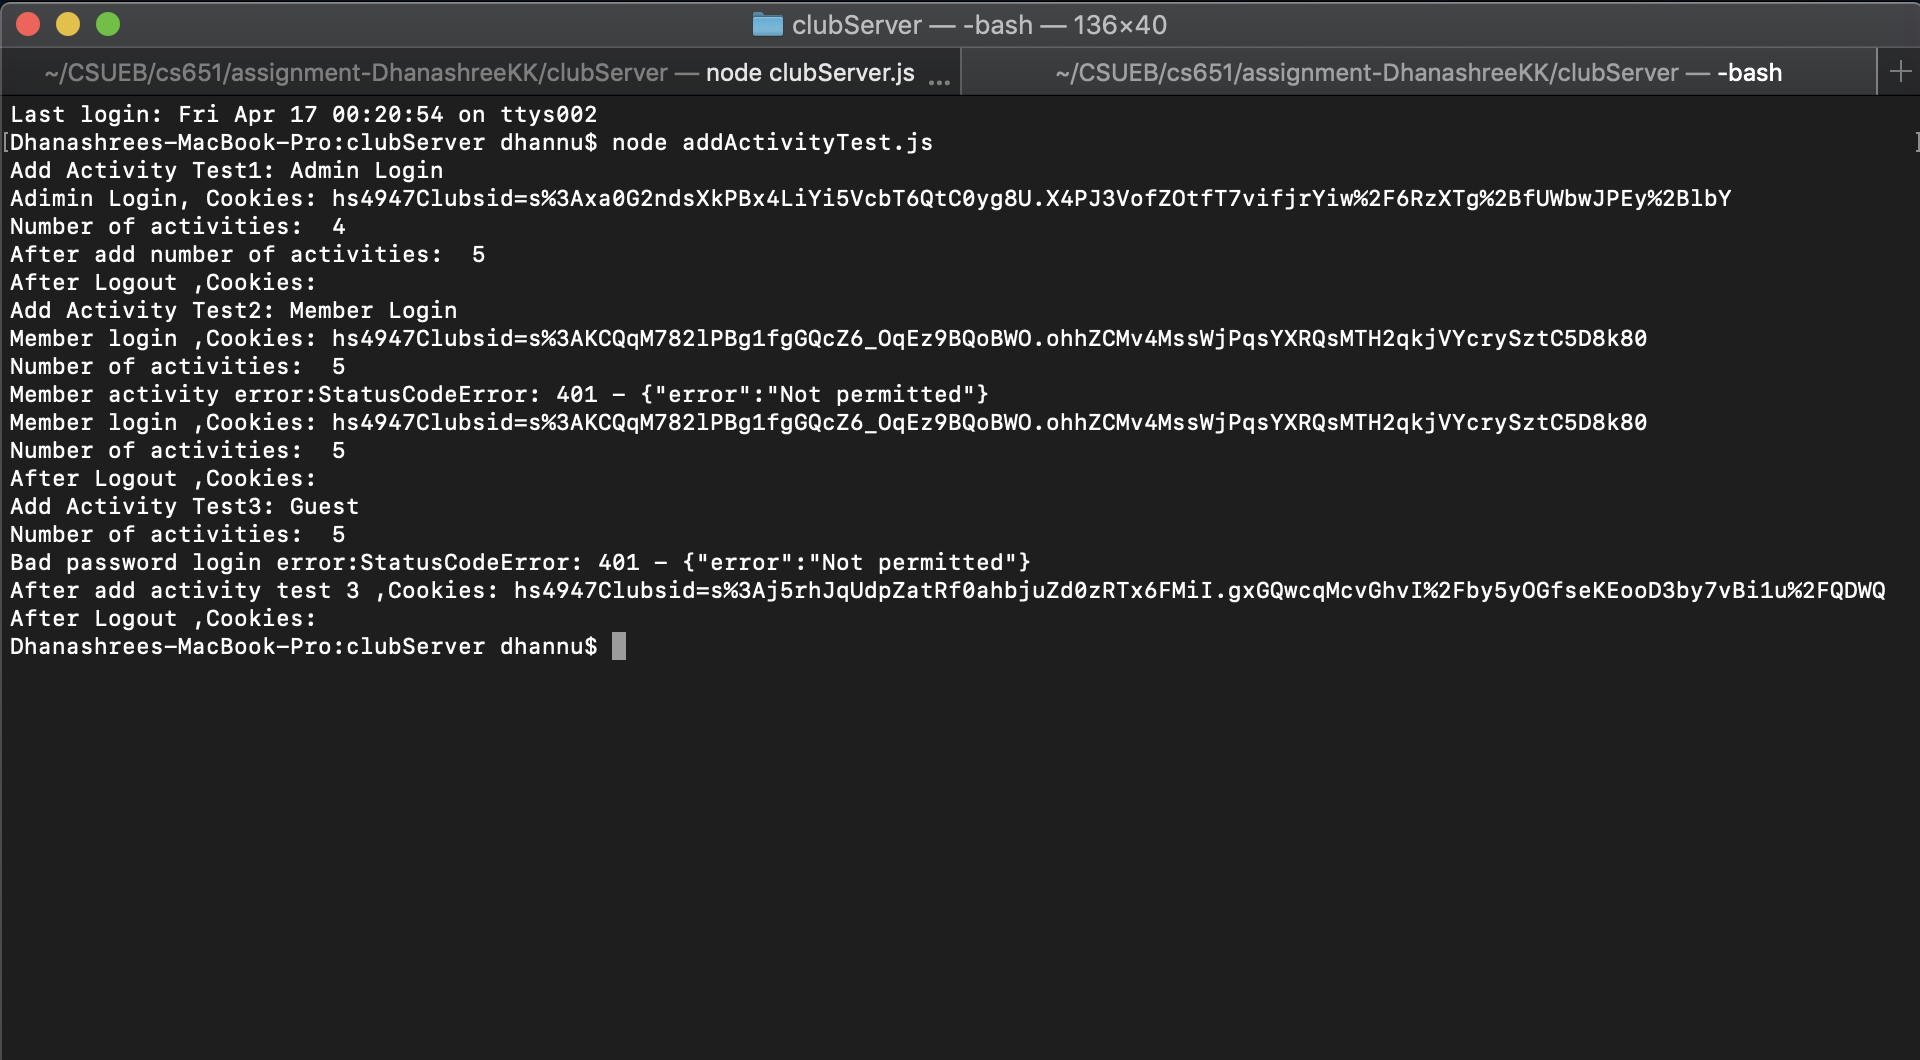
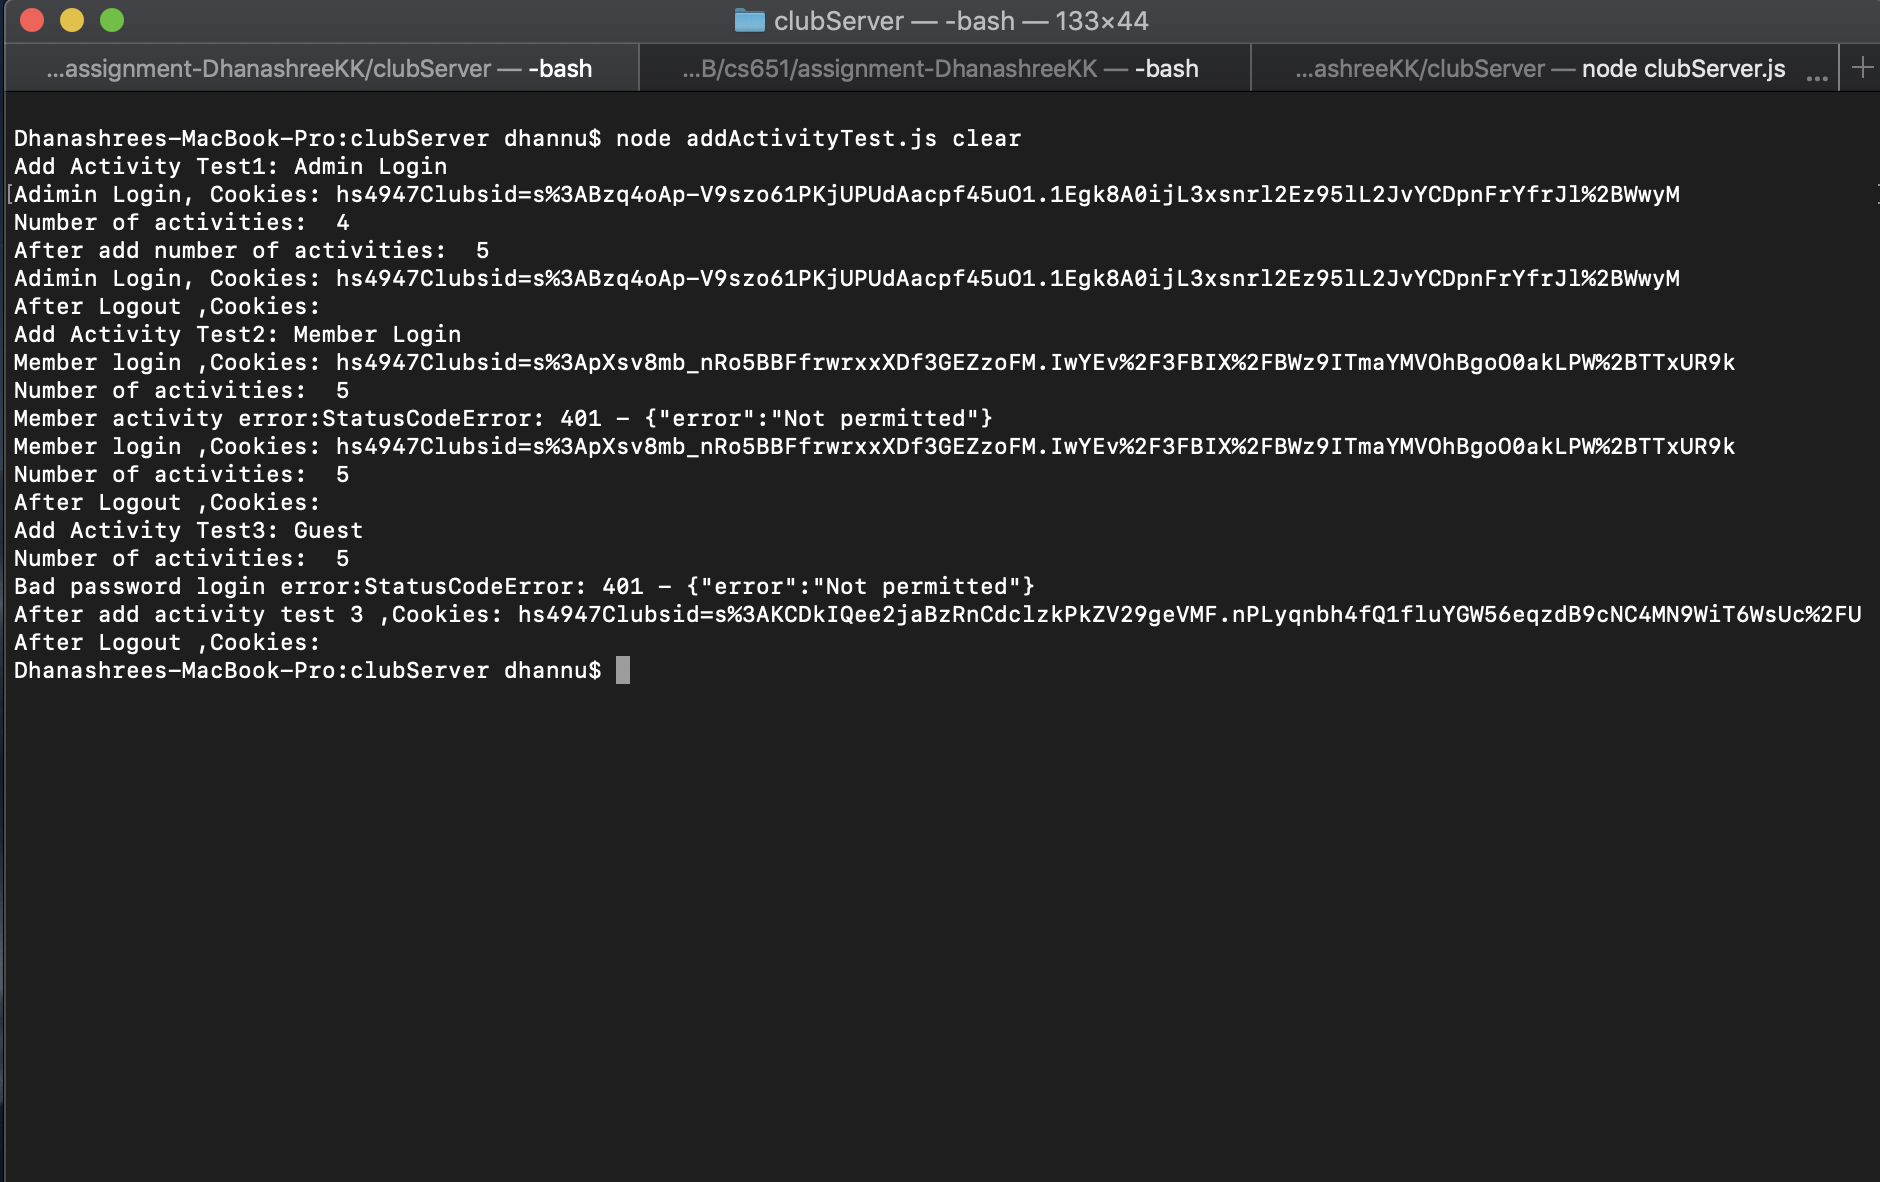
Adding missing test code in README.md file and Changes in ScreenShot

Changed region(s): [[0.0, 0.0, 1.0, 0.6226]]

diff --git a/clubServer/loginTest.js b/clubServer/loginTest.js
@@ -100,3 +100,31 @@ async function tests()
 }
 
 tests();
+//...........Second Question Test.........
+/*async function tests()
+{
+    //Call to check good email and password
+    try {
+        let res = await rp(postGoodEmailPass);
+        console.log("Good login test Results :",JSON.stringify(res));
+    }
+    catch (e) {
+        console.log(e);
+    }
+    //Call to check good email and password
+     try {
+        let res = await rp(postBadEmailIncorrectPass);
+        //console.log("Bad login error :",JSON.stringify(res));
+    }
+    catch (e) {
+         console.log("Bad email login error :",e.message);
+    }
+    //Call to check good email and incorrect password
+     try {
+        let res = await rp(postGoodEmailIncorrectPass);
+    }
+    catch (e) {
+        console.log("Bad password login error :",e.message);
+       // console.log(e);
+    }
+}*/

diff --git a/clubServer/addActivityTest.js b/clubServer/addActivityTest.js
@@ -81,6 +81,7 @@ rp(loginAsAdmin).then(res => {
 }).then(res => {
 	//Add activity and get the updated number of activities
 	console.log(`After add number of activities:  ${res.length}`);
+  console.log(`Adimin Login, Cookies: ${cookiejar.getCookieString(loginAsAdmin.url)}`);
 	return rp(logoutCall)
 }).then(res=> {
   //Logout 

diff --git a/README.md b/README.md
@@ -89,6 +89,85 @@ app.post('/login', express.json(), function(req, res) {
   });
 ```
 ### (b)
+``` loginTest.js
+const rp = require('request-promise-native');
+let cookiejar = rp.jar();
+
+let getActivities = {
+    url: 'http://127.0.0.11:1711/activities',
+    method: 'GET', // What does this do?
+    resolveWithFullResponse: false,
+    jar:cookiejar
+};
+
+let postGoodEmailPass = {
+    url: 'http://127.0.0.11:1711/login',
+    method: 'POST', // What does this do?
+    json: true,
+    body: {
+    	email: "tirrivees1820@outlook.com",
+    	password: "49OqspUq"
+    },
+    jar: cookiejar
+};
+
+let postGoodEmailIncorrectPass = {
+    url: 'http://127.0.0.11:1711/login',
+    method: 'POST', // What does this do?
+    json: true,
+    body: {
+        email: "chihuahua1899@gmail.com",
+        password: "Ckp12311"
+    },
+    jar: cookiejar
+};
+
+let postBadEmailIncorrectPass = {
+    url: 'http://127.0.0.11:1711/login',
+    method: 'POST', // What does this do?
+    json: true,
+    body: {
+        email: "user@email.com",
+        password: "Ckp12311"
+    },
+    jar: cookiejar
+};
+let logoutCall = {
+    url: 'http://127.0.0.11:1711/logout',
+    method: 'GET', // What does this do?
+    resolveWithFullResponse: false,
+    jar: cookiejar
+};
+
+async function tests()
+{
+    //Call to check good email and password
+    try {
+        let res = await rp(postGoodEmailPass);
+        console.log("Good login test Results :",JSON.stringify(res));
+    }
+    catch (e) {
+        console.log(e);
+    }
+    //Call to check good email and password
+     try {
+        let res = await rp(postBadEmailIncorrectPass);
+        //console.log("Bad login error :",JSON.stringify(res));
+    }
+    catch (e) {
+         console.log("Bad email login error :",e.message);
+    }
+    //Call to check good email and incorrect password
+     try {
+        let res = await rp(postGoodEmailIncorrectPass);
+    }
+    catch (e) {
+        console.log("Bad password login error :",e.message);
+       // console.log(e);
+    }
+}
+tests();
+```
 ![ScreenShot](images/ScreenShot66.png)
 
 ## Question 3
@@ -302,7 +381,7 @@ app.post('/activities',checkAdminMiddleware,express.json({ limit: "44b"}), funct
 ```
 
 ### (b)
-//Updated addActivity.js file  
+Updated addActivity.js file  
 
 ``` addActivityTest.js
 const rp = require('request-promise-native');
@@ -387,6 +466,7 @@ rp(loginAsAdmin).then(res => {
 }).then(res => {
   //Add activity and get the updated number of activities
   console.log(`After add number of activities:  ${res.length}`);
+  console.log(`Adimin Login, Cookies: ${cookiejar.getCookieString(loginAsAdmin.url)}`);
   return rp(logoutCall)
 }).then(res=> {
   //Logout 
